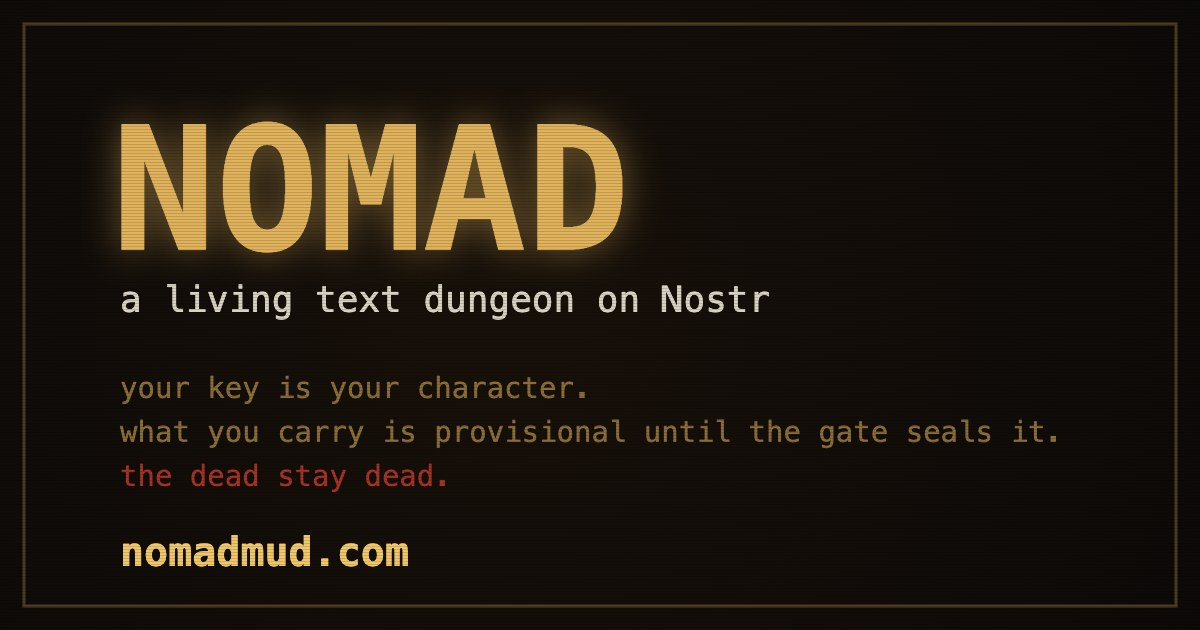
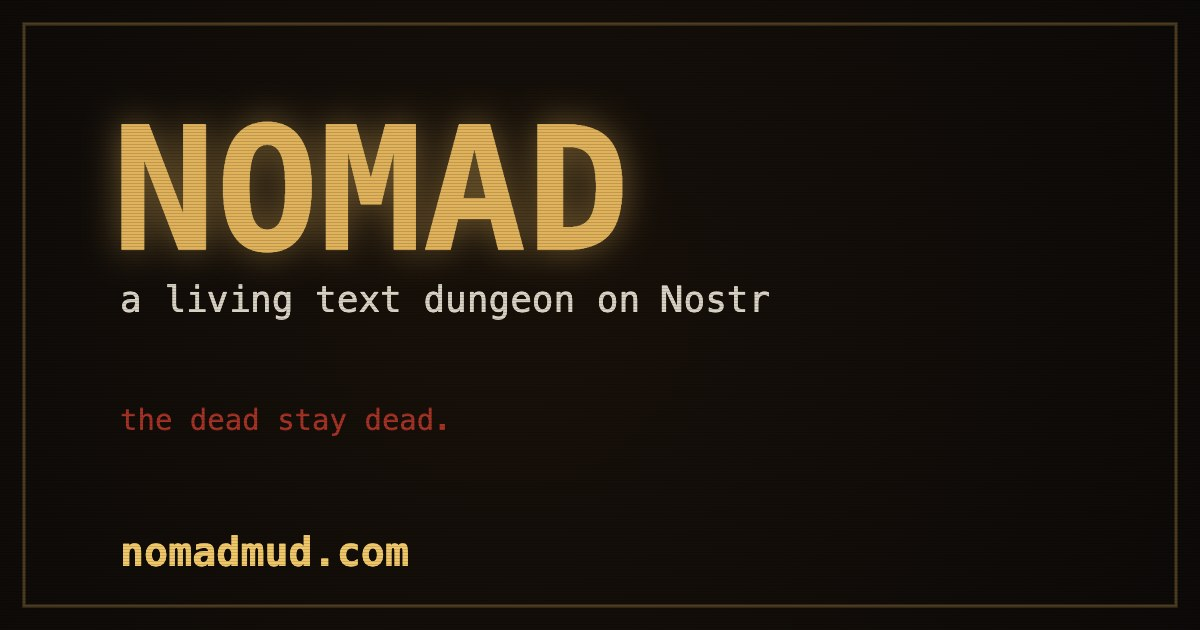
Improve search indexing and simplify social preview

Changed region(s): [[0.0925, 0.6032, 0.8633, 0.7841]]

diff --git a/game-server/src/public.ts b/game-server/src/public.ts
@@ -19,8 +19,9 @@ export const PAGE = `<!doctype html>
 <head>
 <meta charset="utf-8">
 <meta name="viewport" content="width=device-width, initial-scale=1, viewport-fit=cover, interactive-widget=resizes-content">
-<title>NOMAD</title>
-<meta name="description" content="A living text dungeon on Nostr. Your key is your character. The dead stay dead.">
+<title>NOMAD — Multiplayer Text Dungeon on Nostr</title>
+<link rel="canonical" href="https://nomadmud.com/">
+<meta name="description" content="A living text dungeon on Nostr. The dead stay dead.">
 <link rel="icon" type="image/png" href="/apple-touch-icon.png">
 <link rel="apple-touch-icon" href="/apple-touch-icon.png">
 <link rel="manifest" href="/manifest.json">
@@ -28,15 +29,15 @@ export const PAGE = `<!doctype html>
 <meta property="og:type" content="website">
 <meta property="og:site_name" content="NOMAD">
 <meta property="og:title" content="NOMAD">
-<meta property="og:description" content="A living text dungeon on Nostr. Your key is your character. What you carry is provisional until the gate seals it — and the dead stay dead.">
+<meta property="og:description" content="A living text dungeon on Nostr. The dead stay dead.">
 <meta property="og:url" content="https://nomadmud.com">
-<meta property="og:image" content="https://nomadmud.com/og.jpg?v=2">
+<meta property="og:image" content="https://nomadmud.com/og.jpg?v=3">
 <meta property="og:image:width" content="1200">
 <meta property="og:image:height" content="630">
 <meta name="twitter:card" content="summary_large_image">
 <meta name="twitter:title" content="NOMAD">
 <meta name="twitter:description" content="A living text dungeon on Nostr. The dead stay dead.">
-<meta name="twitter:image" content="https://nomadmud.com/og.jpg?v=2">
+<meta name="twitter:image" content="https://nomadmud.com/og.jpg?v=3">
 <style>
   :root {
     --bg: #16120c;

diff --git a/game-server/src/guide.ts b/game-server/src/guide.ts
@@ -23,10 +23,11 @@ export const GUIDE_PAGE = `<!doctype html>
 <meta charset="utf-8">
 <meta name="viewport" content="width=device-width, initial-scale=1, viewport-fit=cover">
 <title>NOMAD — how it works</title>
+<link rel="canonical" href="https://nomadmud.com/guide">
 <meta name="description" content="How NOMAD works: what you keep, what armour does, what weight costs, and why the world does not wait for you.">
 <meta property="og:title" content="NOMAD — how it works">
 <meta property="og:description" content="What you keep, what armour does, what weight costs, and why the world does not wait for you.">
-<meta property="og:image" content="https://nomadmud.com/og.jpg?v=2">
+<meta property="og:image" content="https://nomadmud.com/og.jpg?v=3">
 <link rel="icon" href="/icon.png">
 <style>
   :root {

diff --git a/promo/capture/assets.html b/promo/capture/assets.html
@@ -96,12 +96,9 @@ function gate(g, S){
   g.font='36px Menlo, monospace';
   g.fillText('a living text dungeon on Nostr', X, 312);
 
-  g.fillStyle=DIM;
   g.font='29px Menlo, monospace';
-  g.fillText('your key is your character.', X, 398);
-  g.fillText('what you carry is provisional until the gate seals it.', X, 442);
   g.fillStyle=BLOOD;
-  g.fillText('the dead stay dead.', X, 486);
+  g.fillText('the dead stay dead.', X, 430);
 
   g.fillStyle=GOLD;
   g.font='bold 40px Menlo, monospace';
